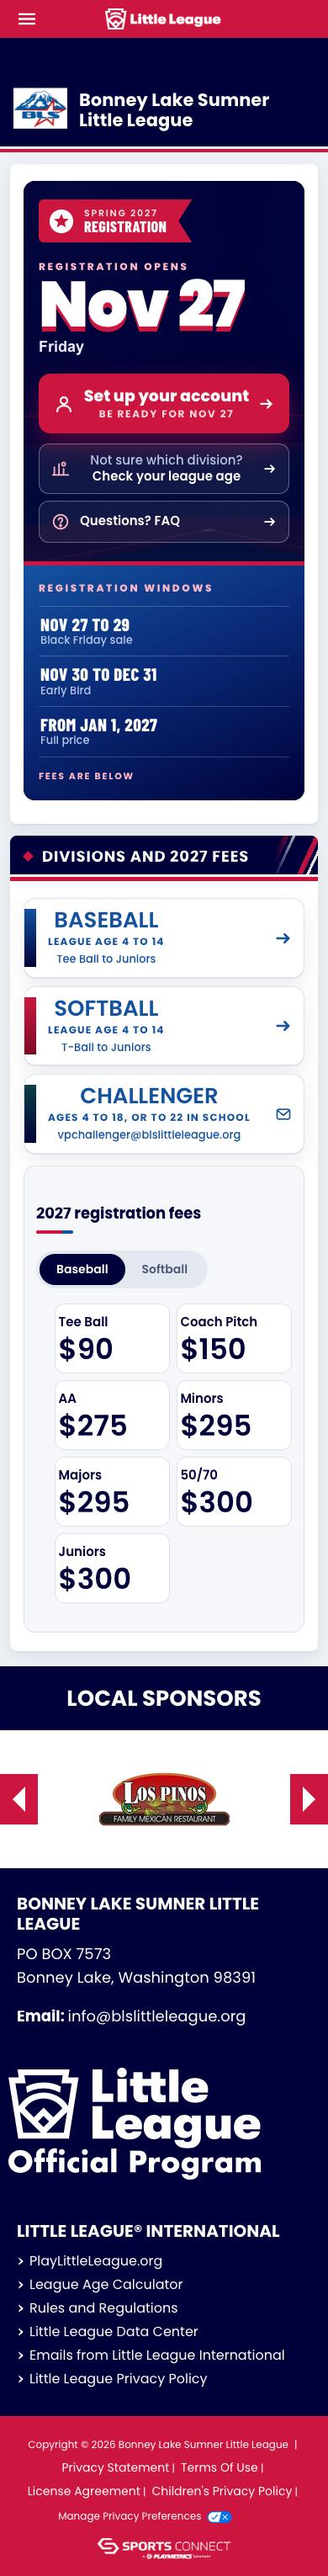
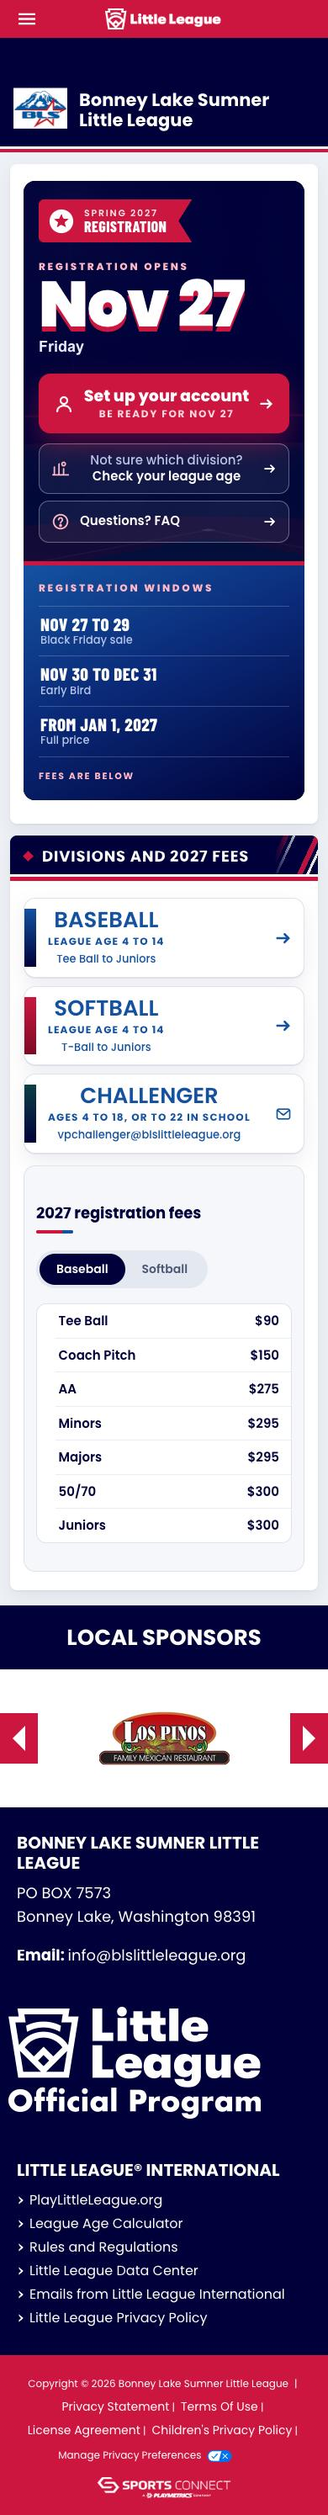
BLS preview: registration fees become a plain list at body size
Research 11/5 across 27 league sites: none shows fees louder than a
plain list; Register stays the one loud element. Toggle kept so the list
stays short on a phone.

Generated with [Claude Code](https://claude.ai/code)
via [Happy](https://happy.engineering)

Claude-Session: https://claude.ai/code/session_018pH9PNFLS4TcMKKFXS6iHD

Changed region(s): [[0.0, 0.0, 1.0, 0.9957]]

diff --git a/bls/preview/proposed/registration.html b/bls/preview/proposed/registration.html
@@ -1240,12 +1240,14 @@ window.addEventListener('OneTrustGroupsUpdated', handleGptAd);
 .blsy #by-f-sb:checked ~ .by-tabbar label[for="by-f-bb"]{background:transparent;color:#4b5675;}
 .blsy #by-f-sb:checked ~ .by-tabbar label[for="by-f-sb"]{background:#00013a;color:#fff;}
 .blsy .by-ladder > input:focus-visible ~ .by-tabbar .by-seg{outline:2px solid #1452a0;outline-offset:2px;}
-.blsy .by-fees{display:grid;grid-template-columns:repeat(4,minmax(0,1fr));gap:10px;}
-.blsy .by-fees li{display:flex;flex-direction:column;align-items:flex-start;gap:6px;background:#fff;border:1px solid #dde3ec;border-radius:12px;padding:14px 16px 13px;}
-.blsy .by-fees span{font-weight:600;font-size:15px;line-height:1.2;color:#00013a;}
-.blsy .by-fees b{font-family:'Barlow Condensed','Arial Narrow',Arial,sans-serif;font-weight:800;font-size:40px;line-height:1;color:#00013a;}
+/* plain one-line-per-division list at body size (11/5: no league checked shows fees louder than a list; Register stays the loud element) */
+.blsy .by-fees{display:flex;flex-direction:column;background:#fff;border:1px solid #dde3ec;border-radius:12px;overflow:hidden;}
+.blsy .by-fees li{display:flex;align-items:center;justify-content:space-between;gap:12px;padding:11px 16px;border-top:1px solid #e8edf4;}
+.blsy .by-fees li:first-child{border-top:0;}
+.blsy .by-fees span{font-weight:600;font-size:15px;line-height:1.3;color:#00013a;}
+.blsy .by-fees b{font-weight:600;font-size:15px;line-height:1.3;color:#00013a;font-variant-numeric:tabular-nums;}
 .blsy .by-fees.by-fee-sb{display:none;}
-.blsy #by-f-sb:checked ~ .by-fee-sb{display:grid;}
+.blsy #by-f-sb:checked ~ .by-fee-sb{display:flex;}
 .blsy #by-f-sb:checked ~ .by-fee-bb{display:none;}
 
 /* ---------- phone ---------- */
@@ -1256,9 +1258,7 @@ window.addEventListener('OneTrustGroupsUpdated', handleGptAd);
   .blsy .by-tile b{font-size:26px;}
   .blsy .by-ladder{padding:18px 14px 16px;}
   .blsy .by-tabbar{flex-direction:column;align-items:flex-start;gap:10px;}
-  .blsy .by-fees{grid-template-columns:repeat(2,minmax(0,1fr));gap:8px;}
-  .blsy .by-fees li{padding:12px 14px 11px;}
-  .blsy .by-fees b{font-size:34px;}
+  .blsy .by-fees li{padding:10px 14px;}
 }
 @media (prefers-reduced-motion:reduce){.blsy *{transition:none !important;}}
 </style>
@@ -1685,5 +1685,5 @@ $(window).load(function(){
        } 
    </script>
 <script src="//translate.google.com/translate_a/element.js?cb=googleTranslateElementInit" type="text/javascript"></script>
-<div id="blsPreviewBar" style="position:fixed;left:0;right:0;bottom:0;z-index:2147483647;background:#00013a;padding:8px 10px calc(8px + env(safe-area-inset-bottom,0px));box-shadow:0 -4px 16px rgba(0,0,0,.35);"><div class="blsb" id="blsbBar"></div><div id="blsSwitch" style="display:flex;gap:6px;max-width:560px;margin:0 auto 6px;"><a aria-label="Previous page: Home" href="https://go.blslittleleague.org/bls/preview/proposed/home.html" style="flex:0 0 auto;display:flex;align-items:center;padding:0 12px;border-radius:999px;font:700 14px/1 Arial,sans-serif;text-decoration:none;color:#fff;border:1px solid rgba(255,255,255,.35);white-space:nowrap;" title="Home">‹ Prev</a><a href="https://go.blslittleleague.org/bls/preview/today/registration.html" style="background:#fff;color:#00013a;flex:1;text-align:center;padding:11px 6px;border-radius:999px;font:700 15px/1 Arial,sans-serif;text-decoration:none;">Today</a><a href="https://go.blslittleleague.org/bls/preview/proposed/registration.html" style="background:#cd163f;color:#fff;flex:1;text-align:center;padding:11px 6px;border-radius:999px;font:700 15px/1 Arial,sans-serif;text-decoration:none;">Proposed</a><a aria-label="Next page: Volunteer Opportunities" href="https://go.blslittleleague.org/bls/preview/proposed/volunteer.html" style="flex:0 0 auto;display:flex;align-items:center;padding:0 12px;border-radius:999px;font:700 14px/1 Arial,sans-serif;text-decoration:none;color:#fff;border:1px solid rgba(255,255,255,.35);white-space:nowrap;" title="Volunteer Opportunities">Next ›</a></div><div id="blsPreviewInfo" style="text-align:center;color:#c9d3f2;font:600 12px/1.3 Arial,sans-serif;">PREVIEW · Registration Info · <a href="https://go.blslittleleague.org/bls/preview/#p-registration" style="color:#fff;">All pages</a></div><details id="blsNeeds" style="max-width:520px;margin:6px auto 0;color:#fff;font:500 14px/1.4 Arial,sans-serif;"><summary style="cursor:pointer;text-align:center;color:#ffd166;font-weight:700;list-style:none;">Facts needed (1)</summary><ul style="margin:8px 0 4px;padding:10px 12px 10px 28px;background:#fff;color:#0a0f2e;border-radius:10px;max-height:45vh;overflow:auto;"><li style="margin:4px 0">Daniel: put the League Age page live first. The card's 'Check your league age' row and the Baseball and Softball tiles link to it.</li></ul></details></div><div id="blsPreviewSpacer" style="height:96px"></div><script>window.BLSB={"base": "https://go.blslittleleague.org/bls/preview", "page": "registration", "variant": "proposed", "index": false, "pages": {"home": {"t": "Home", "req": ["Daniel (Website) or Melissa (Information Officer), in Sports Connect: take down the site-wide announcement bar (gear return, Daffodil Shed, the first thing on every page) or set it to 'Spring 2027 registration opens Fri Nov 27'; pin the registration story first in Local News; move the 'Meet the 2026-27 BLS Board' and 'Join the Fields Committee for 2027' posts off the home feed. Site settings and news posts, not content blocks, so the preview still shows them."]}, "registration": {"t": "Registration Info", "req": ["Daniel: put the League Age page live first. The card's 'Check your league age' row and the Baseball and Softball tiles link to it."]}, "volunteer": {"t": "Volunteer Opportunities", "req": ["Daniel: finish the Spring 2027 registration setup and move volunteer sign-up onto this page. It's running today, just not shown here.", "Daniel: put the Umpires page live first. The Umpire tile links to it."]}, "corpmatch": {"t": "Corporate Match", "req": []}, "sponsorship": {"t": "Sponsorship Opportunities", "req": ["Info needed (Ashley Gauthier): the 2027 sponsor prices. The page shows 2026 prices."]}, "allstars": {"t": "Allstars", "req": ["Daniel: put the Champions page live first. The 2025 card on this page links to it."]}, "fallball": {"t": "Fall Ball", "req": []}, "coaches": {"t": "Coaches Corner", "req": ["Daniel: put the Coach Run Book page live first. The hero clipboard, the pitch count row and the Get cleared card link to it."]}, "faq": {"t": "FAQ", "req": ["Daniel: put the League Age page live first. Answer 2's button links to it.", "Daniel: put the Fields page live first. Answer 7's button links to it."]}, "health": {"t": "Health & Safety", "req": []}, "board": {"t": "Board Members", "req": []}, "calendar": {"t": "Calendar", "req": []}, "champions": {"t": "Champions", "req": []}, "fields": {"t": "Fields", "req": []}, "umpires": {"t": "Umpires", "req": []}, "runbook": {"t": "Coach Run Book", "req": ["Daniel: turn on spring 2027 coach and volunteer sign-up, with the Secretary or Information Officer.", "Daniel: put the Fields page live on blslittleleague.org first.", "Daniel: put the League Age page live first. The roster step links to it.", "Info needed (Dena Berkey): the 2027 uniform sizing steps by division."]}, "schedules": {"t": "Schedules & Scores", "req": ["Daniel: create one GameChanger league per division.", "Daniel: test that a league link opens without a GameChanger account."]}, "leagueage": {"t": "League Age", "req": ["Daniel (Website), in Sports Connect: edit menu page 1270154 (Registration > Age Charts) so it links to this League Age page and rename it League Age; change the footer quick link League Age Calculator to the same page. Both send parents to littleleague.org from every page today, the hop that lost Coach's wife.", "Daniel (Website), same pass in Sports Connect: menu page 1270164 Challenger Division (littleleague.org) to this page's Challenger box or the Registration page; 776461 Approved Bats (littleleague.org) to the FAQ once the bat rule is in answer 3; the five Health menu PDFs 776463, 776474, 776475, 776476 and 776477 (clubs.bluesombrero.com) to the /portals/50558/ paths the Health page uses."]}}};</script><script defer="" src="https://go.blslittleleague.org/bls/preview/board/board.js?v=0676cf4a4f"></script></body>
+<div id="blsPreviewBar" style="position:fixed;left:0;right:0;bottom:0;z-index:2147483647;background:#00013a;padding:8px 10px calc(8px + env(safe-area-inset-bottom,0px));box-shadow:0 -4px 16px rgba(0,0,0,.35);"><div class="blsb" id="blsbBar"></div><div id="blsSwitch" style="display:flex;gap:6px;max-width:560px;margin:0 auto 6px;"><a aria-label="Previous page: Home" href="https://go.blslittleleague.org/bls/preview/proposed/home.html" style="flex:0 0 auto;display:flex;align-items:center;padding:0 12px;border-radius:999px;font:700 14px/1 Arial,sans-serif;text-decoration:none;color:#fff;border:1px solid rgba(255,255,255,.35);white-space:nowrap;" title="Home">‹ Prev</a><a href="https://go.blslittleleague.org/bls/preview/today/registration.html" style="background:#fff;color:#00013a;flex:1;text-align:center;padding:11px 6px;border-radius:999px;font:700 15px/1 Arial,sans-serif;text-decoration:none;">Today</a><a href="https://go.blslittleleague.org/bls/preview/proposed/registration.html" style="background:#cd163f;color:#fff;flex:1;text-align:center;padding:11px 6px;border-radius:999px;font:700 15px/1 Arial,sans-serif;text-decoration:none;">Proposed</a><a aria-label="Next page: Volunteer Opportunities" href="https://go.blslittleleague.org/bls/preview/proposed/volunteer.html" style="flex:0 0 auto;display:flex;align-items:center;padding:0 12px;border-radius:999px;font:700 14px/1 Arial,sans-serif;text-decoration:none;color:#fff;border:1px solid rgba(255,255,255,.35);white-space:nowrap;" title="Volunteer Opportunities">Next ›</a></div><div id="blsPreviewInfo" style="text-align:center;color:#c9d3f2;font:600 12px/1.3 Arial,sans-serif;">PREVIEW · Registration Info · <a href="https://go.blslittleleague.org/bls/preview/#p-registration" style="color:#fff;">All pages</a></div><details id="blsNeeds" style="max-width:520px;margin:6px auto 0;color:#fff;font:500 14px/1.4 Arial,sans-serif;"><summary style="cursor:pointer;text-align:center;color:#ffd166;font-weight:700;list-style:none;">Facts needed (1)</summary><ul style="margin:8px 0 4px;padding:10px 12px 10px 28px;background:#fff;color:#0a0f2e;border-radius:10px;max-height:45vh;overflow:auto;"><li style="margin:4px 0">Daniel: put the League Age page live first. The card's 'Check your league age' row and the Baseball and Softball tiles link to it.</li></ul></details></div><div id="blsPreviewSpacer" style="height:96px"></div><script>window.BLSB={"base": "https://go.blslittleleague.org/bls/preview", "page": "registration", "variant": "proposed", "index": false, "pages": {"home": {"t": "Home", "req": ["Daniel: confirm a content block can be added above the home slideshow (Sports Connect home template).", "Daniel: after Saturday, take down the gear return bar and pin the registration post first in Local News."]}, "registration": {"t": "Registration Info", "req": ["Daniel: put the League Age page live first. The card's 'Check your league age' row and the Baseball and Softball tiles link to it."]}, "volunteer": {"t": "Volunteer Opportunities", "req": ["Daniel: finish the Spring 2027 registration setup and move volunteer sign-up onto this page. It's running today, just not shown here.", "Daniel: put the Umpires page live first. The Umpire tile links to it."]}, "corpmatch": {"t": "Corporate Match", "req": []}, "sponsorship": {"t": "Sponsorship Opportunities", "req": ["Info needed (Ashley Gauthier): the 2027 sponsor prices. The page shows 2026 prices."]}, "allstars": {"t": "Allstars", "req": ["Daniel: put the Champions page live first. The 2025 card on this page links to it."]}, "fallball": {"t": "Fall Ball", "req": []}, "coaches": {"t": "Coaches Corner", "req": ["Daniel: put the Coach Run Book page live first. The hero clipboard, the pitch count row and the Get cleared card link to it."]}, "faq": {"t": "FAQ", "req": ["Daniel: put the League Age page live first. Answer 2's button links to it.", "Daniel: put the Fields page live first. Answer 7's button links to it."]}, "health": {"t": "Health & Safety", "req": []}, "board": {"t": "Board Members", "req": []}, "calendar": {"t": "Calendar", "req": []}, "champions": {"t": "Champions", "req": []}, "fields": {"t": "Fields", "req": []}, "umpires": {"t": "Umpires", "req": []}, "runbook": {"t": "Coach Run Book", "req": ["Daniel: turn on spring 2027 coach and volunteer sign-up, with the Secretary or Information Officer.", "Daniel: put the Fields page live on blslittleleague.org first.", "Daniel: put the League Age page live first. The roster step links to it.", "Info needed (Dena Berkey): the 2027 uniform sizing steps by division."]}, "schedules": {"t": "Schedules & Scores", "req": ["Daniel: create one GameChanger league per division.", "Daniel: test that a league link opens without a GameChanger account."]}, "leagueage": {"t": "League Age", "req": ["Daniel: point the Age Charts menu link and the footer League Age Calculator link to this page.", "Daniel: point the Challenger, Approved Bats and Health menu links to our own pages."]}}};</script><script defer="" src="https://go.blslittleleague.org/bls/preview/board/board.js?v=0676cf4a4f"></script></body>
 </html>

diff --git a/bls/preview/modules/registration-divisions.html b/bls/preview/modules/registration-divisions.html
@@ -31,12 +31,14 @@
 .blsy #by-f-sb:checked ~ .by-tabbar label[for="by-f-bb"]{background:transparent;color:#4b5675;}
 .blsy #by-f-sb:checked ~ .by-tabbar label[for="by-f-sb"]{background:#00013a;color:#fff;}
 .blsy .by-ladder > input:focus-visible ~ .by-tabbar .by-seg{outline:2px solid #1452a0;outline-offset:2px;}
-.blsy .by-fees{display:grid;grid-template-columns:repeat(4,minmax(0,1fr));gap:10px;}
-.blsy .by-fees li{display:flex;flex-direction:column;align-items:flex-start;gap:6px;background:#fff;border:1px solid #dde3ec;border-radius:12px;padding:14px 16px 13px;}
-.blsy .by-fees span{font-weight:600;font-size:15px;line-height:1.2;color:#00013a;}
-.blsy .by-fees b{font-family:'Barlow Condensed','Arial Narrow',Arial,sans-serif;font-weight:800;font-size:40px;line-height:1;color:#00013a;}
+/* plain one-line-per-division list at body size (11/5: no league checked shows fees louder than a list; Register stays the loud element) */
+.blsy .by-fees{display:flex;flex-direction:column;background:#fff;border:1px solid #dde3ec;border-radius:12px;overflow:hidden;}
+.blsy .by-fees li{display:flex;align-items:center;justify-content:space-between;gap:12px;padding:11px 16px;border-top:1px solid #e8edf4;}
+.blsy .by-fees li:first-child{border-top:0;}
+.blsy .by-fees span{font-weight:600;font-size:15px;line-height:1.3;color:#00013a;}
+.blsy .by-fees b{font-weight:600;font-size:15px;line-height:1.3;color:#00013a;font-variant-numeric:tabular-nums;}
 .blsy .by-fees.by-fee-sb{display:none;}
-.blsy #by-f-sb:checked ~ .by-fee-sb{display:grid;}
+.blsy #by-f-sb:checked ~ .by-fee-sb{display:flex;}
 .blsy #by-f-sb:checked ~ .by-fee-bb{display:none;}
 
 /* ---------- phone ---------- */
@@ -47,9 +49,7 @@
   .blsy .by-tile b{font-size:26px;}
   .blsy .by-ladder{padding:18px 14px 16px;}
   .blsy .by-tabbar{flex-direction:column;align-items:flex-start;gap:10px;}
-  .blsy .by-fees{grid-template-columns:repeat(2,minmax(0,1fr));gap:8px;}
-  .blsy .by-fees li{padding:12px 14px 11px;}
-  .blsy .by-fees b{font-size:34px;}
+  .blsy .by-fees li{padding:10px 14px;}
 }
 @media (prefers-reduced-motion:reduce){.blsy *{transition:none !important;}}
 </style>
